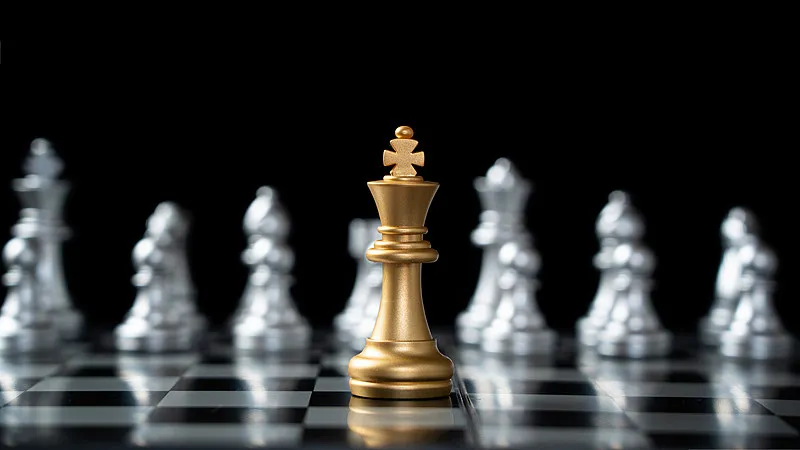
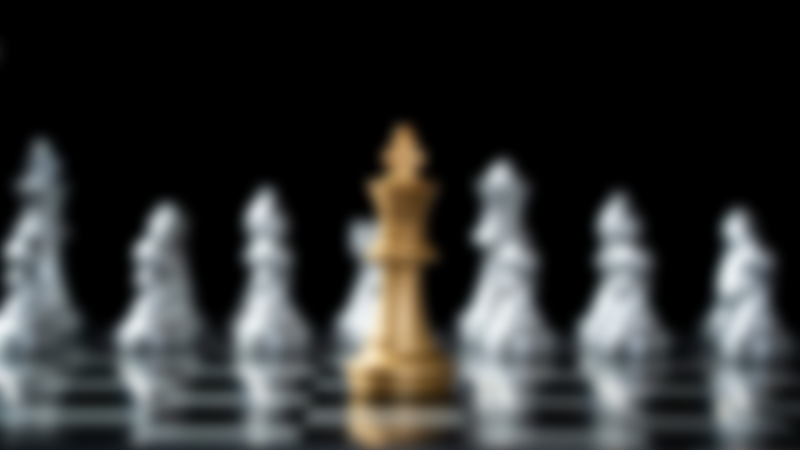
Site updated: 2025-10-20 22:11:38

diff --git a/categories/daily/日常/每日记录/index.html b/categories/daily/日常/每日记录/index.html
@@ -35,7 +35,7 @@
   <!-- feed -->
   <!-- 页面元数据 -->
   <title>每日记录 - Middleman的博客</title>
-  <meta name="keywords" content="日常,生活,blog,research,personal,hobbies">
+  <meta name="keywords" content="生活,日常,blog,research,personal,hobbies">
   <meta desc name="description" content="这是我的个人博客，用来记录研究，知识，兴趣和生活。 - Middleman - Middleman的博客">
   
 <meta property="og:type" content="article">
@@ -46,10 +46,10 @@
 <meta property="og:locale" content="zh_CN">
 <meta property="og:image" content="https://middlemanz.com/favicon.ico">
 <meta property="article:published_time" content="2025-10-15T08:45:30.000Z">
-<meta property="article:modified_time" content="2025-10-17T05:04:39.449Z">
+<meta property="article:modified_time" content="2025-10-20T13:10:11.555Z">
 <meta property="article:author" content="Middleman">
-<meta property="article:tag" content="日常">
 <meta property="article:tag" content="生活">
+<meta property="article:tag" content="日常">
 <meta name="twitter:card" content="summary">
 <meta name="twitter:image" content="https://middlemanz.com/favicon.ico">
   <style>
@@ -2343,7 +2343,7 @@ if (/*@cc_on!@*/false || (!!window.MSInputMethodContext && !!document.documentMo
     root: '/',
     debug: "env",
     default: {"avatar":"https://unpkg.com/volantis-static@0.0.1660614606622/media/placeholder/avatar/round/3442075.svg","link":"https://unpkg.com/volantis-static@0.0.1660614606622/media/placeholder/link/8f277b4ee0ecd.svg","cover":"https://unpkg.com/volantis-static@0.0.1660614606622/media/placeholder/cover/76b86c0226ffd.svg","image":"https://unpkg.com/volantis-static@0.0.1660614606622/media/placeholder/image/2659360.svg"},
-    lastupdate: new Date(1760711766995),
+    lastupdate: new Date(1760965879187),
     cdn: {
       izitoast_css: 'https://unpkg.com/izitoast@1.4.0/dist/css/iziToast.min.css',
       izitoast_js: 'https://unpkg.com/izitoast@1.4.0/dist/js/iziToast.min.js',
@@ -2962,13 +2962,13 @@ if (/*@cc_on!@*/false || (!!window.MSInputMethodContext && !!document.documentMo
   <div class="new-meta-item wordcount">
     <a class='notlink'>
       <i class="fa-solid fa-keyboard fa-fw" aria-hidden="true"></i>
-      <p>字数：394 字</p>
+      <p>字数：984 字</p>
     </a>
   </div>
   <div class="new-meta-item readtime">
     <a class='notlink'>
       <i class="fa-solid fa-hourglass-half fa-fw" aria-hidden="true"></i>
-      <p>时长：1 分钟</p>
+      <p>时长：3 分钟</p>
     </a>
   </div>
 
@@ -3031,6 +3031,18 @@ if (/*@cc_on!@*/false || (!!window.MSInputMethodContext && !!document.documentMo
 <p>那聪明的人已经猜到我会选什么了，只是正常人类都会选的😁</p>
 <p><del>不过今天迟到了五分钟。</del><br>意外的是个别zemi的发表很顺利。老板好像挺满意我的进展。这就好。</p>
 <p><a href="/categories/research/%E6%97%A5%E5%B8%B8/%E7%A0%94%E7%A9%B6%E6%97%A5%E5%B8%B8/#20251017">今日学术记录</a></p>
+<h4 id="20251018" style="text-align:center; font-weight:bold;">2025/10/18 周六</h4>
+
+<p>今天女朋友给我买了最新的苹果手表作为生日礼物！其实很多事情没必要拿来炫耀😅就好像我女朋友2025年10月18日给我买了Apple Watch S11，女朋友给我买了Apple Watch S11这件事没必要天天提，因为我知道2025年10月18日女朋友给买Apple Watch S11的人多的是，天天提2025年10月18日女朋友给我买就显得好像只有我知道我2025年10月18日拥有了Apple Watch S11一样，现在你也知道2025年10月18日我女朋友给买了Apple Watch S11，我女朋友在2025年10月18日给我买了Apple Watch S11就买了呗，就这样吧，反正我女朋友在2025年10月18日给我买了Apple Watch S11。</p>
+<p>作为圣诞礼物，给小鸡买了迪奥的圣诞眼影礼盒，她看起来很开心。就很好。</p>
+<h4 id="20251019" style="text-align:center; font-weight:bold;">2025/10/19 周日</h4>
+
+<p>今天去大阪天下茶屋玩了线下血染钟楼。<br>应该是我第二回正式玩血染，第一回是和老瘸在沈阳的桌游店里玩的。<br>当时还觉得这个游戏云里雾里，后面才知道这个游戏的乐趣。<br>在我看来血染的乐趣在于1：参与感；2：不确定性。参与感指每一个人都有技能能干自己的事情，不至于像狼人杀的平民一样束手无策只能靠瞎猜。而不确定性代表这个游戏的逻辑是基本上不会闭环的，意味着大概率出现两个截然相反而又互相不能证伪的逻辑。这就给了游戏以及玩家很大的发挥空间，玩家比起死盘逻辑更需要“证明给别人看自己是对的”。我很喜欢这种，至少他赋予了每一位玩家可操作的空间。</p>
+<h4 id="20251020" style="text-align:center; font-weight:bold;">2025/10/20 周一</h4>
+
+<p>今天weekly report 去了研究室。</p>
+<p><a href="/categories/research/%E6%97%A5%E5%B8%B8/%E7%A0%94%E7%A9%B6%E6%97%A5%E5%B8%B8/#20251020">今日学术记录</a></p>
+<p>有一个很搞笑的好消息。为了继续我的研究，本来有A、B两个活，学长帮我干了A说接下来想然我干B。然后老师发邮件过来让我干A，学长一看就把他做好的A发过去了。老师大喜过望说太好了那你等一会我给你把B整完。<br>合着两个都不需要我做哈哈哈。</p>
 
   </div>
   
@@ -3055,10 +3067,10 @@ if (/*@cc_on!@*/false || (!!window.MSInputMethodContext && !!document.documentMo
     <div class='new-meta-box'>
       
         
-          <div class="new-meta-item date" itemprop="dateModified" datetime="2025-10-17T14:04:39+09:00">
+          <div class="new-meta-item date" itemprop="dateModified" datetime="2025-10-20T22:10:11+09:00">
   <a class='notlink'>
     <i class="fa-solid fa-edit fa-fw" aria-hidden="true"></i>
-    <p>更新于：2025年10月17日</p>
+    <p>更新于：2025年10月20日</p>
   </a>
 </div>
 
@@ -3069,8 +3081,8 @@ if (/*@cc_on!@*/false || (!!window.MSInputMethodContext && !!document.documentMo
   
   
   
-  <div class="new-meta-item meta-tags"><a class="tag" href="/tags/%E6%97%A5%E5%B8%B8/" rel="nofollow"><i class="fa-solid fa-hashtag fa-fw" aria-hidden="true"></i><p>日常</p></a></div> <div class="new-meta-item meta-tags"><a class="tag" href="/tags/%E7%94%9F%E6%B4%BB/" rel="nofollow"><i class="fa-solid fa-hashtag fa-fw" aria-hidden="true"></i><p>生活</p></a></div>
-  <span hidden itemprop="keywords">日常 生活</span>
+  <div class="new-meta-item meta-tags"><a class="tag" href="/tags/%E7%94%9F%E6%B4%BB/" rel="nofollow"><i class="fa-solid fa-hashtag fa-fw" aria-hidden="true"></i><p>生活</p></a></div> <div class="new-meta-item meta-tags"><a class="tag" href="/tags/%E6%97%A5%E5%B8%B8/" rel="nofollow"><i class="fa-solid fa-hashtag fa-fw" aria-hidden="true"></i><p>日常</p></a></div>
+  <span hidden itemprop="keywords">生活 日常</span>
   
 
 
@@ -3161,7 +3173,7 @@ if (/*@cc_on!@*/false || (!!window.MSInputMethodContext && !!document.documentMo
 
 
   <div class='content'>
-      <ol class="toc"><li class="toc-item toc-level-4"><a class="toc-link" href="#20251015"><span class="toc-text">2025&#x2F;10&#x2F;15 周三</span></a></li><li class="toc-item toc-level-4"><a class="toc-link" href="#20251016"><span class="toc-text">2025&#x2F;10&#x2F;16 周四</span></a></li><li class="toc-item toc-level-4"><a class="toc-link" href="#20251017"><span class="toc-text">2025&#x2F;10&#x2F;17 周五</span></a></li></ol>
+      <ol class="toc"><li class="toc-item toc-level-4"><a class="toc-link" href="#20251015"><span class="toc-text">2025&#x2F;10&#x2F;15 周三</span></a></li><li class="toc-item toc-level-4"><a class="toc-link" href="#20251016"><span class="toc-text">2025&#x2F;10&#x2F;16 周四</span></a></li><li class="toc-item toc-level-4"><a class="toc-link" href="#20251017"><span class="toc-text">2025&#x2F;10&#x2F;17 周五</span></a></li><li class="toc-item toc-level-4"><a class="toc-link" href="#20251018"><span class="toc-text">2025&#x2F;10&#x2F;18 周六</span></a></li><li class="toc-item toc-level-4"><a class="toc-link" href="#20251019"><span class="toc-text">2025&#x2F;10&#x2F;19 周日</span></a></li><li class="toc-item toc-level-4"><a class="toc-link" href="#20251020"><span class="toc-text">2025&#x2F;10&#x2F;20 周一</span></a></li></ol>
   </div>
 </section>
 
@@ -3812,7 +3824,7 @@ window.matchMedia('(prefers-color-scheme: light)').addListener(darkModelListener
 </script>
 
 
-  <script type="application/ld+json">[{"@context":"https://schema.org.cn","@type":"Organization","name":"Middleman的博客","url":"https://middlemanz.com/","logo":{"@type":"ImageObject","url":"/favicon.ico","width":192,"height":192}},{"@context":"https://schema.org.cn","@type":"Person","name":"Middleman","image":{"@type":"ImageObject","url":"/favicon.ico"},"url":"https://middlemanz.com/","sameAs":["https://github.com/volantis-x"],"description":"这是我的个人博客，用来记录研究，知识，兴趣和生活。"},{"@context":"https://schema.org.cn","@type":"BreadcrumbList","itemListElement":[{"@type":"ListItem","position":1,"item":{"@id":"https://middlemanz.com/","name":"Middleman的博客"}},{"@type":"ListItem","position":2,"item":{"@id":"https://middlemanz.com/categories/daily/","name":"daily"}},{"@type":"ListItem","position":2,"item":{"@id":"https://middlemanz.com/categories/daily/日常/","name":"日常"}},{"@type":"ListItem","position":3,"item":{"@id":"https://middlemanz.com/categories/daily/日常/每日记录/","name":"每日记录"}}]},{"@context":"https://schema.org.cn","@type":"WebSite","name":"Middleman的博客","url":"https://middlemanz.com/","keywords":"blog,research,personal,hobbies","description":"这是我的个人博客，用来记录研究，知识，兴趣和生活。","author":{"@type":"Person","name":"Middleman","image":{"@type":"ImageObject","url":"/favicon.ico"},"url":"https://middlemanz.com/","description":"这是我的个人博客，用来记录研究，知识，兴趣和生活。"},"publisher":{"@type":"Organization","name":"Middleman的博客","url":"https://middlemanz.com/","logo":{"@type":"ImageObject","url":"/favicon.ico","width":192,"height":192}},"potentialAction":{"@type":"SearchAction","name":"Site Search","target":{"@type":"EntryPoint","urlTemplate":"https://middlemanz.com?s={search_term_string}"},"query-input":"required name=search_term_string"}},{"@context":"https://schema.org.cn","@type":"BlogPosting","headline":"每日记录","description":"这是我的个人博客，用来记录研究，知识，兴趣和生活。","inLanguage":"zh-CN","mainEntityOfPage":{"@type":"WebPage","@id":"https://middlemanz.com/categories/daily/%E6%97%A5%E5%B8%B8/%E6%AF%8F%E6%97%A5%E8%AE%B0%E5%BD%95/"},"author":{"@type":"Person","name":"Middleman","image":{"@type":"ImageObject","url":"/favicon.ico"},"url":"https://middlemanz.com/"},"publisher":{"@type":"Organization","name":"Middleman的博客","logo":{"@type":"ImageObject","url":"/favicon.ico","width":192,"height":192}},"url":"https://middlemanz.com/categories/daily/%E6%97%A5%E5%B8%B8/%E6%AF%8F%E6%97%A5%E8%AE%B0%E5%BD%95/","wordCount":0,"datePublished":"2025-10-15T08:45:30.000Z","dateModified":"2025-10-17T05:04:39.449Z","articleSection":"daily","keywords":"日常,生活","image":{"@type":"ImageObject","url":"/favicon.ico","width":192,"height":192}}]</script>
+  <script type="application/ld+json">[{"@context":"https://schema.org.cn","@type":"Organization","name":"Middleman的博客","url":"https://middlemanz.com/","logo":{"@type":"ImageObject","url":"/favicon.ico","width":192,"height":192}},{"@context":"https://schema.org.cn","@type":"Person","name":"Middleman","image":{"@type":"ImageObject","url":"/favicon.ico"},"url":"https://middlemanz.com/","sameAs":["https://github.com/volantis-x"],"description":"这是我的个人博客，用来记录研究，知识，兴趣和生活。"},{"@context":"https://schema.org.cn","@type":"BreadcrumbList","itemListElement":[{"@type":"ListItem","position":1,"item":{"@id":"https://middlemanz.com/","name":"Middleman的博客"}},{"@type":"ListItem","position":2,"item":{"@id":"https://middlemanz.com/categories/daily/","name":"daily"}},{"@type":"ListItem","position":2,"item":{"@id":"https://middlemanz.com/categories/daily/日常/","name":"日常"}},{"@type":"ListItem","position":3,"item":{"@id":"https://middlemanz.com/categories/daily/日常/每日记录/","name":"每日记录"}}]},{"@context":"https://schema.org.cn","@type":"WebSite","name":"Middleman的博客","url":"https://middlemanz.com/","keywords":"blog,research,personal,hobbies","description":"这是我的个人博客，用来记录研究，知识，兴趣和生活。","author":{"@type":"Person","name":"Middleman","image":{"@type":"ImageObject","url":"/favicon.ico"},"url":"https://middlemanz.com/","description":"这是我的个人博客，用来记录研究，知识，兴趣和生活。"},"publisher":{"@type":"Organization","name":"Middleman的博客","url":"https://middlemanz.com/","logo":{"@type":"ImageObject","url":"/favicon.ico","width":192,"height":192}},"potentialAction":{"@type":"SearchAction","name":"Site Search","target":{"@type":"EntryPoint","urlTemplate":"https://middlemanz.com?s={search_term_string}"},"query-input":"required name=search_term_string"}},{"@context":"https://schema.org.cn","@type":"BlogPosting","headline":"每日记录","description":"这是我的个人博客，用来记录研究，知识，兴趣和生活。","inLanguage":"zh-CN","mainEntityOfPage":{"@type":"WebPage","@id":"https://middlemanz.com/categories/daily/%E6%97%A5%E5%B8%B8/%E6%AF%8F%E6%97%A5%E8%AE%B0%E5%BD%95/"},"author":{"@type":"Person","name":"Middleman","image":{"@type":"ImageObject","url":"/favicon.ico"},"url":"https://middlemanz.com/"},"publisher":{"@type":"Organization","name":"Middleman的博客","logo":{"@type":"ImageObject","url":"/favicon.ico","width":192,"height":192}},"url":"https://middlemanz.com/categories/daily/%E6%97%A5%E5%B8%B8/%E6%AF%8F%E6%97%A5%E8%AE%B0%E5%BD%95/","wordCount":0,"datePublished":"2025-10-15T08:45:30.000Z","dateModified":"2025-10-20T13:10:11.555Z","articleSection":"daily","keywords":"生活,日常","image":{"@type":"ImageObject","url":"/favicon.ico","width":192,"height":192}}]</script>
 
 
 

diff --git a/categories/research/日常/研究日常/index.html b/categories/research/日常/研究日常/index.html
@@ -46,7 +46,7 @@
 <meta property="og:locale" content="zh_CN">
 <meta property="og:image" content="https://middlemanz.com/favicon.ico">
 <meta property="article:published_time" content="2025-10-16T07:19:07.000Z">
-<meta property="article:modified_time" content="2025-10-17T05:11:41.106Z">
+<meta property="article:modified_time" content="2025-10-20T13:09:59.334Z">
 <meta property="article:author" content="Middleman">
 <meta property="article:tag" content="日常">
 <meta property="article:tag" content="研究">
@@ -2343,7 +2343,7 @@ if (/*@cc_on!@*/false || (!!window.MSInputMethodContext && !!document.documentMo
     root: '/',
     debug: "env",
     default: {"avatar":"https://unpkg.com/volantis-static@0.0.1660614606622/media/placeholder/avatar/round/3442075.svg","link":"https://unpkg.com/volantis-static@0.0.1660614606622/media/placeholder/link/8f277b4ee0ecd.svg","cover":"https://unpkg.com/volantis-static@0.0.1660614606622/media/placeholder/cover/76b86c0226ffd.svg","image":"https://unpkg.com/volantis-static@0.0.1660614606622/media/placeholder/image/2659360.svg"},
-    lastupdate: new Date(1760711766995),
+    lastupdate: new Date(1760965879187),
     cdn: {
       izitoast_css: 'https://unpkg.com/izitoast@1.4.0/dist/css/iziToast.min.css',
       izitoast_js: 'https://unpkg.com/izitoast@1.4.0/dist/js/iziToast.min.js',
@@ -2962,13 +2962,13 @@ if (/*@cc_on!@*/false || (!!window.MSInputMethodContext && !!document.documentMo
   <div class="new-meta-item wordcount">
     <a class='notlink'>
       <i class="fa-solid fa-keyboard fa-fw" aria-hidden="true"></i>
-      <p>字数：831 字</p>
+      <p>字数：1.2k 字</p>
     </a>
   </div>
   <div class="new-meta-item readtime">
     <a class='notlink'>
       <i class="fa-solid fa-hourglass-half fa-fw" aria-hidden="true"></i>
-      <p>时长：2 分钟</p>
+      <p>时长：4 分钟</p>
     </a>
   </div>
 
@@ -3033,6 +3033,15 @@ if (/*@cc_on!@*/false || (!!window.MSInputMethodContext && !!document.documentMo
 <li>更改AIM-PLUM的数据输入部分使其能直接对应AgLU的最新标准输出</li>
 </ul>
 <p>接下来就是一点一点做了。</p>
+<h4 id="20251020" style="text-align:center; font-weight:bold;">2025/10/20 周一</h4>
+
+<p>本来以为上周进展挺顺利，这周任务应该不重。但是今天又和老师来回mail了无数轮来确认模型运转时间长的原因，导致也没能早回家。</p>
+<p>和老师交流后目前确认到的内容如下：</p>
+<ul>
+<li>之前downscale AIMHUB的时候，模型输出的是17地域数据，也就是把世界分成17份。downscale一共用时90分钟。现在AgLU模型把全世界分成400份（虽然不均匀）但是其中有一些区域的用时反而比之前多了。也就是说模型下推小的面积比大的面积用时还要长。老师怀疑模型根本没有输出确定解但是没有证据。</li>
+<li>模型一共用32个CPU线程；整个模型里一共400个流域，每一个流域要按时间计算10次（2010，2020，…，2100），所以一共是4000次计算。这四千个计算是随机分配到32个CPU线程里的！（当然对于每一个流域而言，靠后的年份肯定是在所有的前置年份计算完成后再计算的（因为后面的需要前面的数据））我之前以为是把400个流域随机分给32个线程，没想到是完全随机分的。</li>
+<li>两个很有经验的学长以及老师们对原因毫无头绪😅</li>
+</ul>
 
   </div>
   
@@ -3057,10 +3066,10 @@ if (/*@cc_on!@*/false || (!!window.MSInputMethodContext && !!document.documentMo
     <div class='new-meta-box'>
       
         
-          <div class="new-meta-item date" itemprop="dateModified" datetime="2025-10-17T14:11:41+09:00">
+          <div class="new-meta-item date" itemprop="dateModified" datetime="2025-10-20T22:09:59+09:00">
   <a class='notlink'>
     <i class="fa-solid fa-edit fa-fw" aria-hidden="true"></i>
-    <p>更新于：2025年10月17日</p>
+    <p>更新于：2025年10月20日</p>
   </a>
 </div>
 
@@ -3158,7 +3167,7 @@ if (/*@cc_on!@*/false || (!!window.MSInputMethodContext && !!document.documentMo
 
 
   <div class='content'>
-      <ol class="toc"><li class="toc-item toc-level-4"><a class="toc-link" href="#20251015"><span class="toc-text">2025&#x2F;10&#x2F;15 周三</span></a></li><li class="toc-item toc-level-4"><a class="toc-link" href="#20251016"><span class="toc-text">2025&#x2F;10&#x2F;16 周四</span></a></li><li class="toc-item toc-level-4"><a class="toc-link" href="#20251017"><span class="toc-text">2025&#x2F;10&#x2F;17 周五</span></a></li></ol>
+      <ol class="toc"><li class="toc-item toc-level-4"><a class="toc-link" href="#20251015"><span class="toc-text">2025&#x2F;10&#x2F;15 周三</span></a></li><li class="toc-item toc-level-4"><a class="toc-link" href="#20251016"><span class="toc-text">2025&#x2F;10&#x2F;16 周四</span></a></li><li class="toc-item toc-level-4"><a class="toc-link" href="#20251017"><span class="toc-text">2025&#x2F;10&#x2F;17 周五</span></a></li><li class="toc-item toc-level-4"><a class="toc-link" href="#20251020"><span class="toc-text">2025&#x2F;10&#x2F;20 周一</span></a></li></ol>
   </div>
 </section>
 
@@ -3809,7 +3818,7 @@ window.matchMedia('(prefers-color-scheme: light)').addListener(darkModelListener
 </script>
 
 
-  <script type="application/ld+json">[{"@context":"https://schema.org.cn","@type":"Organization","name":"Middleman的博客","url":"https://middlemanz.com/","logo":{"@type":"ImageObject","url":"/favicon.ico","width":192,"height":192}},{"@context":"https://schema.org.cn","@type":"Person","name":"Middleman","image":{"@type":"ImageObject","url":"/favicon.ico"},"url":"https://middlemanz.com/","sameAs":["https://github.com/volantis-x"],"description":"这是我的个人博客，用来记录研究，知识，兴趣和生活。"},{"@context":"https://schema.org.cn","@type":"BreadcrumbList","itemListElement":[{"@type":"ListItem","position":1,"item":{"@id":"https://middlemanz.com/","name":"Middleman的博客"}},{"@type":"ListItem","position":2,"item":{"@id":"https://middlemanz.com/categories/research/","name":"research"}},{"@type":"ListItem","position":2,"item":{"@id":"https://middlemanz.com/categories/research/日常/","name":"日常"}},{"@type":"ListItem","position":3,"item":{"@id":"https://middlemanz.com/categories/research/日常/研究日常/","name":"研究日常"}}]},{"@context":"https://schema.org.cn","@type":"WebSite","name":"Middleman的博客","url":"https://middlemanz.com/","keywords":"blog,research,personal,hobbies","description":"这是我的个人博客，用来记录研究，知识，兴趣和生活。","author":{"@type":"Person","name":"Middleman","image":{"@type":"ImageObject","url":"/favicon.ico"},"url":"https://middlemanz.com/","description":"这是我的个人博客，用来记录研究，知识，兴趣和生活。"},"publisher":{"@type":"Organization","name":"Middleman的博客","url":"https://middlemanz.com/","logo":{"@type":"ImageObject","url":"/favicon.ico","width":192,"height":192}},"potentialAction":{"@type":"SearchAction","name":"Site Search","target":{"@type":"EntryPoint","urlTemplate":"https://middlemanz.com?s={search_term_string}"},"query-input":"required name=search_term_string"}},{"@context":"https://schema.org.cn","@type":"BlogPosting","headline":"研究日常","description":"这是我的个人博客，用来记录研究，知识，兴趣和生活。","inLanguage":"zh-CN","mainEntityOfPage":{"@type":"WebPage","@id":"https://middlemanz.com/categories/research/%E6%97%A5%E5%B8%B8/%E7%A0%94%E7%A9%B6%E6%97%A5%E5%B8%B8/"},"author":{"@type":"Person","name":"Middleman","image":{"@type":"ImageObject","url":"/favicon.ico"},"url":"https://middlemanz.com/"},"publisher":{"@type":"Organization","name":"Middleman的博客","logo":{"@type":"ImageObject","url":"/favicon.ico","width":192,"height":192}},"url":"https://middlemanz.com/categories/research/%E6%97%A5%E5%B8%B8/%E7%A0%94%E7%A9%B6%E6%97%A5%E5%B8%B8/","wordCount":0,"datePublished":"2025-10-16T07:19:07.000Z","dateModified":"2025-10-17T05:11:41.106Z","articleSection":"research","keywords":"日常,研究","image":{"@type":"ImageObject","url":"/favicon.ico","width":192,"height":192}}]</script>
+  <script type="application/ld+json">[{"@context":"https://schema.org.cn","@type":"Organization","name":"Middleman的博客","url":"https://middlemanz.com/","logo":{"@type":"ImageObject","url":"/favicon.ico","width":192,"height":192}},{"@context":"https://schema.org.cn","@type":"Person","name":"Middleman","image":{"@type":"ImageObject","url":"/favicon.ico"},"url":"https://middlemanz.com/","sameAs":["https://github.com/volantis-x"],"description":"这是我的个人博客，用来记录研究，知识，兴趣和生活。"},{"@context":"https://schema.org.cn","@type":"BreadcrumbList","itemListElement":[{"@type":"ListItem","position":1,"item":{"@id":"https://middlemanz.com/","name":"Middleman的博客"}},{"@type":"ListItem","position":2,"item":{"@id":"https://middlemanz.com/categories/research/","name":"research"}},{"@type":"ListItem","position":2,"item":{"@id":"https://middlemanz.com/categories/research/日常/","name":"日常"}},{"@type":"ListItem","position":3,"item":{"@id":"https://middlemanz.com/categories/research/日常/研究日常/","name":"研究日常"}}]},{"@context":"https://schema.org.cn","@type":"WebSite","name":"Middleman的博客","url":"https://middlemanz.com/","keywords":"blog,research,personal,hobbies","description":"这是我的个人博客，用来记录研究，知识，兴趣和生活。","author":{"@type":"Person","name":"Middleman","image":{"@type":"ImageObject","url":"/favicon.ico"},"url":"https://middlemanz.com/","description":"这是我的个人博客，用来记录研究，知识，兴趣和生活。"},"publisher":{"@type":"Organization","name":"Middleman的博客","url":"https://middlemanz.com/","logo":{"@type":"ImageObject","url":"/favicon.ico","width":192,"height":192}},"potentialAction":{"@type":"SearchAction","name":"Site Search","target":{"@type":"EntryPoint","urlTemplate":"https://middlemanz.com?s={search_term_string}"},"query-input":"required name=search_term_string"}},{"@context":"https://schema.org.cn","@type":"BlogPosting","headline":"研究日常","description":"这是我的个人博客，用来记录研究，知识，兴趣和生活。","inLanguage":"zh-CN","mainEntityOfPage":{"@type":"WebPage","@id":"https://middlemanz.com/categories/research/%E6%97%A5%E5%B8%B8/%E7%A0%94%E7%A9%B6%E6%97%A5%E5%B8%B8/"},"author":{"@type":"Person","name":"Middleman","image":{"@type":"ImageObject","url":"/favicon.ico"},"url":"https://middlemanz.com/"},"publisher":{"@type":"Organization","name":"Middleman的博客","logo":{"@type":"ImageObject","url":"/favicon.ico","width":192,"height":192}},"url":"https://middlemanz.com/categories/research/%E6%97%A5%E5%B8%B8/%E7%A0%94%E7%A9%B6%E6%97%A5%E5%B8%B8/","wordCount":0,"datePublished":"2025-10-16T07:19:07.000Z","dateModified":"2025-10-20T13:09:59.334Z","articleSection":"research","keywords":"日常,研究","image":{"@type":"ImageObject","url":"/favicon.ico","width":192,"height":192}}]</script>
 
 
 

diff --git a/css/style.css b/css/style.css
@@ -7589,38 +7589,15 @@ header {
   content: none !important;
 }
 
-/* 默认背景 */
+/* 设置默认背景颜色或备用图 */
 body {
-  background-color: #f5f5f5;
-  background-image: url('/images/background.png'); /* 本地备用图 */
+  background-color: #f5f5f5; /* 默认浅灰色，防止白屏 */
+  background-image: url('/images/background.png'); /* 可选：本地备用图 */
   background-size: cover;
   background-position: center;
   background-attachment: fixed;
-  transition: background 0.5s ease;
+  transition: background 0.5s ease; /* 平滑过渡 */
 }
+/* 当第三方背景加载成功后，会覆盖这里的默认背景 */
 
-/* 模糊+闪烁层：只用固定的底色，不继承body */
-body::before {
-  content: '';
-  position: fixed;
-  inset: 0;
-  background: #f5f5f5 url('/images/background.png') center/cover no-repeat;
-  filter: blur(10px) brightness(0.8);
-  animation: pulse 2s infinite ease-in-out;
-  z-index: -1;
-}
 
-/* 闪烁动画 */
-@keyframes pulse {
-  0% { opacity: 0.9; }
-  50% { opacity: 0.6; }
-  100% { opacity: 0.9; }
-}
-
-/* 第三方背景加载完成后去掉模糊层 */
-body.loaded::before {
-  animation: none;
-  filter: none;
-  opacity: 0;
-  transition: opacity 0.5s ease;
-}

diff --git a/archives/2025/10/index.html b/archives/2025/10/index.html
@@ -2340,7 +2340,7 @@ if (/*@cc_on!@*/false || (!!window.MSInputMethodContext && !!document.documentMo
     root: '/',
     debug: "env",
     default: {"avatar":"https://unpkg.com/volantis-static@0.0.1660614606622/media/placeholder/avatar/round/3442075.svg","link":"https://unpkg.com/volantis-static@0.0.1660614606622/media/placeholder/link/8f277b4ee0ecd.svg","cover":"https://unpkg.com/volantis-static@0.0.1660614606622/media/placeholder/cover/76b86c0226ffd.svg","image":"https://unpkg.com/volantis-static@0.0.1660614606622/media/placeholder/image/2659360.svg"},
-    lastupdate: new Date(1760711766995),
+    lastupdate: new Date(1760965879187),
     cdn: {
       izitoast_css: 'https://unpkg.com/izitoast@1.4.0/dist/css/iziToast.min.css',
       izitoast_js: 'https://unpkg.com/izitoast@1.4.0/dist/js/iziToast.min.js',

diff --git a/archives/2025/index.html b/archives/2025/index.html
@@ -2340,7 +2340,7 @@ if (/*@cc_on!@*/false || (!!window.MSInputMethodContext && !!document.documentMo
     root: '/',
     debug: "env",
     default: {"avatar":"https://unpkg.com/volantis-static@0.0.1660614606622/media/placeholder/avatar/round/3442075.svg","link":"https://unpkg.com/volantis-static@0.0.1660614606622/media/placeholder/link/8f277b4ee0ecd.svg","cover":"https://unpkg.com/volantis-static@0.0.1660614606622/media/placeholder/cover/76b86c0226ffd.svg","image":"https://unpkg.com/volantis-static@0.0.1660614606622/media/placeholder/image/2659360.svg"},
-    lastupdate: new Date(1760711766995),
+    lastupdate: new Date(1760965879187),
     cdn: {
       izitoast_css: 'https://unpkg.com/izitoast@1.4.0/dist/css/iziToast.min.css',
       izitoast_js: 'https://unpkg.com/izitoast@1.4.0/dist/js/iziToast.min.js',

diff --git a/archives/index.html b/archives/index.html
@@ -2340,7 +2340,7 @@ if (/*@cc_on!@*/false || (!!window.MSInputMethodContext && !!document.documentMo
     root: '/',
     debug: "env",
     default: {"avatar":"https://unpkg.com/volantis-static@0.0.1660614606622/media/placeholder/avatar/round/3442075.svg","link":"https://unpkg.com/volantis-static@0.0.1660614606622/media/placeholder/link/8f277b4ee0ecd.svg","cover":"https://unpkg.com/volantis-static@0.0.1660614606622/media/placeholder/cover/76b86c0226ffd.svg","image":"https://unpkg.com/volantis-static@0.0.1660614606622/media/placeholder/image/2659360.svg"},
-    lastupdate: new Date(1760711766995),
+    lastupdate: new Date(1760965879187),
     cdn: {
       izitoast_css: 'https://unpkg.com/izitoast@1.4.0/dist/css/iziToast.min.css',
       izitoast_js: 'https://unpkg.com/izitoast@1.4.0/dist/js/iziToast.min.js',

diff --git a/categories/daily/index.html b/categories/daily/index.html
@@ -2340,7 +2340,7 @@ if (/*@cc_on!@*/false || (!!window.MSInputMethodContext && !!document.documentMo
     root: '/',
     debug: "env",
     default: {"avatar":"https://unpkg.com/volantis-static@0.0.1660614606622/media/placeholder/avatar/round/3442075.svg","link":"https://unpkg.com/volantis-static@0.0.1660614606622/media/placeholder/link/8f277b4ee0ecd.svg","cover":"https://unpkg.com/volantis-static@0.0.1660614606622/media/placeholder/cover/76b86c0226ffd.svg","image":"https://unpkg.com/volantis-static@0.0.1660614606622/media/placeholder/image/2659360.svg"},
-    lastupdate: new Date(1760711766995),
+    lastupdate: new Date(1760965879187),
     cdn: {
       izitoast_css: 'https://unpkg.com/izitoast@1.4.0/dist/css/iziToast.min.css',
       izitoast_js: 'https://unpkg.com/izitoast@1.4.0/dist/js/iziToast.min.js',

diff --git a/categories/daily/旅行/index.html b/categories/daily/旅行/index.html
@@ -2340,7 +2340,7 @@ if (/*@cc_on!@*/false || (!!window.MSInputMethodContext && !!document.documentMo
     root: '/',
     debug: "env",
     default: {"avatar":"https://unpkg.com/volantis-static@0.0.1660614606622/media/placeholder/avatar/round/3442075.svg","link":"https://unpkg.com/volantis-static@0.0.1660614606622/media/placeholder/link/8f277b4ee0ecd.svg","cover":"https://unpkg.com/volantis-static@0.0.1660614606622/media/placeholder/cover/76b86c0226ffd.svg","image":"https://unpkg.com/volantis-static@0.0.1660614606622/media/placeholder/image/2659360.svg"},
-    lastupdate: new Date(1760711766995),
+    lastupdate: new Date(1760965879187),
     cdn: {
       izitoast_css: 'https://unpkg.com/izitoast@1.4.0/dist/css/iziToast.min.css',
       izitoast_js: 'https://unpkg.com/izitoast@1.4.0/dist/js/iziToast.min.js',

diff --git a/categories/daily/旅行/scholarship-trip2025/index.html b/categories/daily/旅行/scholarship-trip2025/index.html
@@ -2343,7 +2343,7 @@ if (/*@cc_on!@*/false || (!!window.MSInputMethodContext && !!document.documentMo
     root: '/',
     debug: "env",
     default: {"avatar":"https://unpkg.com/volantis-static@0.0.1660614606622/media/placeholder/avatar/round/3442075.svg","link":"https://unpkg.com/volantis-static@0.0.1660614606622/media/placeholder/link/8f277b4ee0ecd.svg","cover":"https://unpkg.com/volantis-static@0.0.1660614606622/media/placeholder/cover/76b86c0226ffd.svg","image":"https://unpkg.com/volantis-static@0.0.1660614606622/media/placeholder/image/2659360.svg"},
-    lastupdate: new Date(1760711766995),
+    lastupdate: new Date(1760965879187),
     cdn: {
       izitoast_css: 'https://unpkg.com/izitoast@1.4.0/dist/css/iziToast.min.css',
       izitoast_js: 'https://unpkg.com/izitoast@1.4.0/dist/js/iziToast.min.js',

diff --git a/categories/daily/日常/index.html b/categories/daily/日常/index.html
@@ -2340,7 +2340,7 @@ if (/*@cc_on!@*/false || (!!window.MSInputMethodContext && !!document.documentMo
     root: '/',
     debug: "env",
     default: {"avatar":"https://unpkg.com/volantis-static@0.0.1660614606622/media/placeholder/avatar/round/3442075.svg","link":"https://unpkg.com/volantis-static@0.0.1660614606622/media/placeholder/link/8f277b4ee0ecd.svg","cover":"https://unpkg.com/volantis-static@0.0.1660614606622/media/placeholder/cover/76b86c0226ffd.svg","image":"https://unpkg.com/volantis-static@0.0.1660614606622/media/placeholder/image/2659360.svg"},
-    lastupdate: new Date(1760711766995),
+    lastupdate: new Date(1760965879187),
     cdn: {
       izitoast_css: 'https://unpkg.com/izitoast@1.4.0/dist/css/iziToast.min.css',
       izitoast_js: 'https://unpkg.com/izitoast@1.4.0/dist/js/iziToast.min.js',

diff --git a/categories/index.html b/categories/index.html
@@ -2342,7 +2342,7 @@ if (/*@cc_on!@*/false || (!!window.MSInputMethodContext && !!document.documentMo
     root: '/',
     debug: "env",
     default: {"avatar":"https://unpkg.com/volantis-static@0.0.1660614606622/media/placeholder/avatar/round/3442075.svg","link":"https://unpkg.com/volantis-static@0.0.1660614606622/media/placeholder/link/8f277b4ee0ecd.svg","cover":"https://unpkg.com/volantis-static@0.0.1660614606622/media/placeholder/cover/76b86c0226ffd.svg","image":"https://unpkg.com/volantis-static@0.0.1660614606622/media/placeholder/image/2659360.svg"},
-    lastupdate: new Date(1760711766995),
+    lastupdate: new Date(1760965879187),
     cdn: {
       izitoast_css: 'https://unpkg.com/izitoast@1.4.0/dist/css/iziToast.min.css',
       izitoast_js: 'https://unpkg.com/izitoast@1.4.0/dist/js/iziToast.min.js',

diff --git a/categories/research/index.html b/categories/research/index.html
@@ -2340,7 +2340,7 @@ if (/*@cc_on!@*/false || (!!window.MSInputMethodContext && !!document.documentMo
     root: '/',
     debug: "env",
     default: {"avatar":"https://unpkg.com/volantis-static@0.0.1660614606622/media/placeholder/avatar/round/3442075.svg","link":"https://unpkg.com/volantis-static@0.0.1660614606622/media/placeholder/link/8f277b4ee0ecd.svg","cover":"https://unpkg.com/volantis-static@0.0.1660614606622/media/placeholder/cover/76b86c0226ffd.svg","image":"https://unpkg.com/volantis-static@0.0.1660614606622/media/placeholder/image/2659360.svg"},
-    lastupdate: new Date(1760711766995),
+    lastupdate: new Date(1760965879187),
     cdn: {
       izitoast_css: 'https://unpkg.com/izitoast@1.4.0/dist/css/iziToast.min.css',
       izitoast_js: 'https://unpkg.com/izitoast@1.4.0/dist/js/iziToast.min.js',
